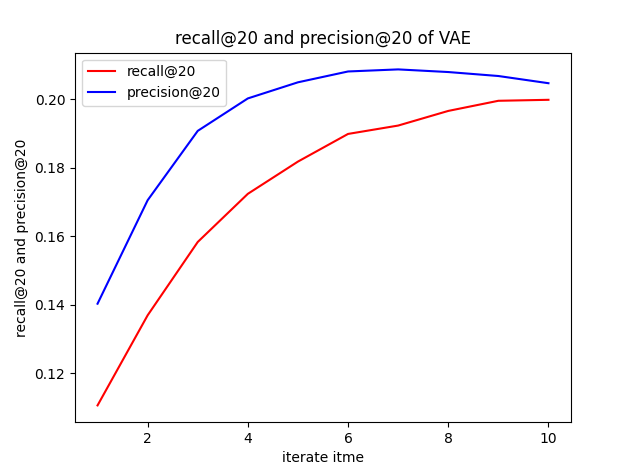
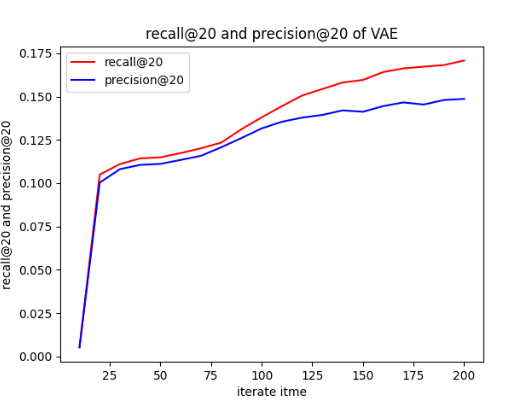
Add files via upload

diff --git a/VAEnew.py b/VAEnew.py
@@ -5,6 +5,7 @@ from torch.utils.data import Dataset, DataLoader
 import torch.nn as nn
 import torch.nn.functional as F
 import matplotlib.pyplot as plt
+from sklearn import preprocessing
 
 
 def split_data(data, part1, part2):
@@ -43,27 +44,31 @@ def filter_data(train_data, valid_data, test_data):
     :param test_data:
     :return: valid_data and test_data after filtering
     """
-    train_movie = train_data['movie_id'].drop_duplicates().tolist()
-    valid_movie = valid_data['movie_id'].drop_duplicates().tolist()
-    test_movie = test_data['movie_id'].drop_duplicates().tolist()
+    train_movie = train_data['movieId'].drop_duplicates().tolist()
+    valid_movie = valid_data['movieId'].drop_duplicates().tolist()
+    test_movie = test_data['movieId'].drop_duplicates().tolist()
 
     valid_movie = list(set(valid_movie).intersection(set(train_movie)))
     test_movie = list(set(test_movie).intersection(set(train_movie)))
 
     # isin: Simultaneously check if the data is equal to multiple values (list / dict / dataframe)
-    valid_data = valid_data[valid_data.movie_id.isin(valid_movie)]
-    test_data = test_data[test_data.movie_id.isin(test_movie)]
+    valid_data = valid_data[valid_data.movieId.isin(valid_movie)]
+    test_data = test_data[test_data.movieId.isin(test_movie)]
 
     return valid_data, test_data
 
 
 def read_data(root1):
-    r_cols = ['user_id', 'movie_id', 'rating', 'time']
-    ratings_base = pd.read_csv(root1, sep="::", names=['user_id', 'movie_id', 'rating', 'time'], engine='python')
-
-    ratings_base.drop(['time'], axis=1, inplace=True)  # only when inplace is true do an operation
+    ratings_base = pd.read_csv(root1)
+    ratings_base.drop(columns=['timestamp'])  # only when inplace is true do an operation
 
     ratings_base = ratings_base[(ratings_base['rating'] >= 1)]
+    lbl_user = preprocessing.LabelEncoder()
+    lbl_movie = preprocessing.LabelEncoder()
+    ratings_base.userId = lbl_user.fit_transform(np.array(ratings_base.userId))
+    ratings_base.movieId = lbl_movie.fit_transform(np.array(ratings_base.movieId))
+    print(f'rating_df.userId.max()={ratings_base.userId.max()}')  # users 0 ~ 609
+    print(f'rating_df.movieId.max()={ratings_base.movieId.max()}')  # movies 0 ~ 9723
 
     train_data, valid_data, test_data = split_data(ratings_base, 0.6, 0.2)
     valid_data, test_data = filter_data(train_data, valid_data, test_data)
@@ -84,24 +89,25 @@ def ranking_matrix(train_data, valid_data, test_data, user_num, item_num):
     valid_mat = np.zeros((user_num, item_num))
     test_mat = np.zeros((user_num, item_num))
 
-    train_user = train_data['user_id'].drop_duplicates().tolist()
-    valid_user = valid_data['user_id'].drop_duplicates().tolist()
-    test_user = test_data['user_id'].drop_duplicates().tolist()
+    train_user = train_data['userId'].drop_duplicates().tolist()
+    valid_user = valid_data['userId'].drop_duplicates().tolist()
+    test_user = test_data['userId'].drop_duplicates().tolist()
 
     # hashset for user -> movies
     train_movie = {}
     for user in train_user:
-        train_movie[user] = train_data.loc[train_data['user_id'] == user]['movie_id'].drop_duplicates().tolist()
+        train_movie[user] = train_data.loc[train_data['userId'] == user]['movieId'].drop_duplicates().tolist()
     valid_movie = {}
     for user in valid_user:
-        valid_movie[user] = valid_data.loc[valid_data['user_id'] == user]['movie_id'].drop_duplicates().tolist()
+        valid_movie[user] = valid_data.loc[valid_data['userId'] == user]['movieId'].drop_duplicates().tolist()
     test_movie = {}
     for user in test_user:
-        test_movie[user] = test_data.loc[test_data['user_id'] == user]['movie_id'].drop_duplicates().tolist()
+        test_movie[user] = test_data.loc[test_data['userId'] == user]['movieId'].drop_duplicates().tolist()
 
     # matrix
     for user in train_user:
         for movie in train_movie[user]:
+            # print(f'user={user}\tmovie={movie}')
             train_mat[user][movie] = 1
 
     for user in valid_user:
@@ -190,13 +196,13 @@ def mytest(train_data, test_data, vae, test_mat, train_mat):
     device = torch.device('cuda' if torch.cuda.is_available() else 'cpu')
     pre_k, rec_k = 0, 0
 
-    test_user = test_data['user_id'].drop_duplicates().tolist()
-    train_user = train_data['user_id'].drop_duplicates().tolist()
+    test_user = test_data['userId'].drop_duplicates().tolist()
+    train_user = train_data['userId'].drop_duplicates().tolist()
     train_movie = {}
 
     for user in train_user:
-        train_movie[user] = train_data.loc[train_data['user_id'] == user][
-            "movie_id"].drop_duplicates().tolist()
+        train_movie[user] = train_data.loc[train_data['userId'] == user][
+            "movieId"].drop_duplicates().tolist()
 
     # use list to slice np array, convert it into tensor
     input_data = torch.tensor(train_mat[test_user], dtype=torch.float).to(device)
@@ -215,8 +221,8 @@ def mytest(train_data, test_data, vae, test_mat, train_mat):
 
     for i, u in enumerate(test_user):
         hit = 0
-        test_list = test_data.loc[test_data['user_id'] == u][
-            "movie_id"].drop_duplicates().tolist()
+        test_list = test_data.loc[test_data['userId'] == u][
+            "movieId"].drop_duplicates().tolist()
 
         recommend = []
         for movie in tmp_list[i]:
@@ -244,7 +250,7 @@ def train(movie_num, hidden_num, dataloader, train_data, test_data, test_mat, tr
     recall_list = []
     precision_list = []
     opt = torch.optim.Adam(vae.parameters(), lr=lr)
-    iters = 100
+    iters = 200
     for i in range(1, iters + 1):
         for x, user in dataloader:
             x = x.to(device)
@@ -263,7 +269,7 @@ def train(movie_num, hidden_num, dataloader, train_data, test_data, test_mat, tr
 
 
 def data_visualization(recall_list, precision_list, length):
-    epochs = [i for i in range(1, length + 1)]
+    epochs = [10 * i for i in range(1, length + 1)]
     fig, ax = plt.subplots()
     plt.plot(epochs, recall_list, color='r', label='recall@20')
     plt.plot(epochs, precision_list, color='b', label='precision@20')
@@ -275,12 +281,12 @@ def data_visualization(recall_list, precision_list, length):
 
 
 if __name__ == '__main__':
-    root1 = 'ml-1m/ratings.txt'
+    root1 = 'ml-latest-small/ratings.csv'
     train_data, valid_data, test_data = read_data(root1)
     print('Reading data is complete')
 
-    user_num = 6041
-    movie_num = 4000
+    user_num = 610
+    movie_num = 9627
     hidden_num = 200
 
     train_mat, valid_mat, test_mat = ranking_matrix(train_data, valid_data, test_data, user_num, movie_num)
